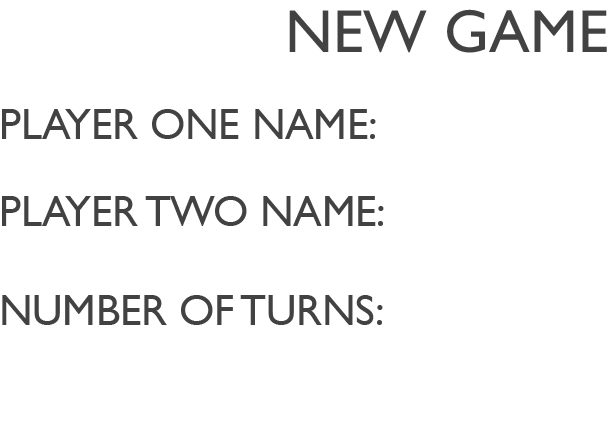
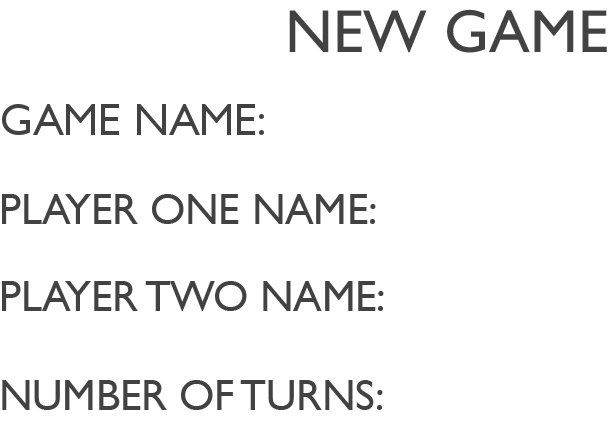
Removed some unused assets. Added gameName vars and assets.

diff --git a/core/src/com/TeamHEC/LocomotionCommotion/Scene/StartMenu.java b/core/src/com/TeamHEC/LocomotionCommotion/Scene/StartMenu.java
@@ -38,10 +38,10 @@ public class StartMenu extends Scene{
 	private SpriteButton homeButton, nextButton, prevButton, preferencesBackButton;
 
 	// Other stuff
-	public static String player1name, player2name;
+	public static String gameName, player1name, player2name;
 	public static int turnChoice = 50;
-	public static TextField textbox1, textbox2;
-	private static boolean player1NameEntered, player2NameEntered;
+	public static TextField gameNameBox, playerNameBox1, playerNameBox2;
+	private static boolean gameNameEntered, player1NameEntered, player2NameEntered;
 
 	public StartMenu()
 	{
@@ -231,7 +231,7 @@ public class StartMenu extends Scene{
 			public void onClicked()
 			{
 				if (player1NameEntered){
-					LocomotionCommotion.player1name=textbox1.getText();
+					LocomotionCommotion.player1name=playerNameBox1.getText();
 				}
 				
 				else{
@@ -239,11 +239,19 @@ public class StartMenu extends Scene{
 				}
 				
 				if (player2NameEntered){
-					LocomotionCommotion.player2name=textbox2.getText();
+					LocomotionCommotion.player2name=playerNameBox2.getText();
 				}
 				
 				else{
 					LocomotionCommotion.player2name="Orange";
+				}
+				
+				if (gameNameEntered){
+					LocomotionCommotion.gameName=gameNameBox.getText();
+				}
+				else{
+					//Could find the smallest available integer for saving replay information
+					LocomotionCommotion.gameName="TestGame";
 				}
 				
 				LocomotionCommotion.turnChoice = turnChoice;
@@ -254,8 +262,8 @@ public class StartMenu extends Scene{
 			
 			public void resetNewGameScreen()
 			{
-				textbox1.setText("");
-				textbox2.setText("");
+				playerNameBox1.setText("");
+				playerNameBox2.setText("");
 				turn50Button.setTexture(SM_TextureManager.getInstance().sm_newgame_Turn50Btn);
 				turn100Button.setTexture(SM_TextureManager.getInstance().sm_newgame_Turn100_unselected_Btn);
 				turn150Button.setTexture(SM_TextureManager.getInstance().sm_newgame_Turn150_unselected_Btn);
@@ -300,8 +308,8 @@ public class StartMenu extends Scene{
 			}
 
 			public void resetNewGameScreen(){
-				StartMenu.textbox1.setText("");
-				StartMenu.textbox2.setText("");
+				StartMenu.playerNameBox1.setText("");
+				StartMenu.playerNameBox2.setText("");
 				turn50Button.setTexture(SM_TextureManager.getInstance().sm_newgame_Turn50Btn);
 				turn100Button.setTexture(SM_TextureManager.getInstance().sm_newgame_Turn100_unselected_Btn);
 				turn150Button.setTexture(SM_TextureManager.getInstance().sm_newgame_Turn150_unselected_Btn);
@@ -312,7 +320,7 @@ public class StartMenu extends Scene{
 		};
 		actors.add(newGameBackButton);
 
-		turn50Button = new SpriteButton(490, 1497, SM_TextureManager.getInstance().sm_newgame_Turn50Btn){
+		turn50Button = new SpriteButton(490, 1412, SM_TextureManager.getInstance().sm_newgame_Turn50Btn){
 
 			@Override
 			public void onClicked()
@@ -326,7 +334,7 @@ public class StartMenu extends Scene{
 		};
 		actors.add(turn50Button);
 
-		turn100Button = new SpriteButton(590, 1497, SM_TextureManager.getInstance().sm_newgame_Turn100_unselected_Btn){
+		turn100Button = new SpriteButton(590, 1412, SM_TextureManager.getInstance().sm_newgame_Turn100_unselected_Btn){
 
 			@Override
 			public void onClicked()
@@ -340,7 +348,7 @@ public class StartMenu extends Scene{
 		};
 		actors.add(turn100Button);
 
-		turn150Button = new SpriteButton(690, 1497, SM_TextureManager.getInstance().sm_newgame_Turn150_unselected_Btn){
+		turn150Button = new SpriteButton(690, 1412, SM_TextureManager.getInstance().sm_newgame_Turn150_unselected_Btn){
 
 			@Override
 			public void onClicked()
@@ -580,38 +588,56 @@ public class StartMenu extends Scene{
 		
 		//Text boxes for Player 1 and 2 names
 		Skin skin = new Skin(Gdx.files.internal("data/uiskin.json"));
-
-		textbox1 = new TextField("", skin);
+		
+		gameNameBox = new TextField("", skin);
 		skin.getFont("default-font").setScale(1.5f, 1.5f);
-		textbox1.setX(480);
-		textbox1.setY(1150+532);
-		textbox1.setSize(430, 60);
-		textbox1.setMessageText("Player 1");
+		gameNameBox.setX(480);
+		gameNameBox.setY(1150+532);
+		gameNameBox.setSize(430, 60);
+		gameNameBox.setMessageText("Game Name");
+		gameNameEntered = false;
+		TextFieldListener gameField = new TextFieldListener(){
+			public void keyTyped (TextField textbox0, char key){
+				if (key == '\n') textbox0.getOnscreenKeyboard().show(false);
+				gameName = textbox0.getText();
+				gameNameEntered = true;
+			}
+		};
+		gameNameBox.setTextFieldListener(gameField);
+		
+		playerNameBox1 = new TextField("", skin);
+		skin.getFont("default-font").setScale(1.5f, 1.5f);
+		playerNameBox1.setX(480);
+		playerNameBox1.setY(1150+447);
+		playerNameBox1.setSize(430, 60);
+		playerNameBox1.setMessageText("Player One");
 		player1NameEntered = false;
 		TextFieldListener player1 = new TextFieldListener() {
 			public void keyTyped (TextField textbox1, char key) {
 				if (key == '\n') textbox1.getOnscreenKeyboard().show(false);
 				player1name = textbox1.getText();
 				player1NameEntered = true;
-			}};
+			}
+		};
+		playerNameBox1.setTextFieldListener(player1);
 
-			textbox1.setTextFieldListener(player1);
+		playerNameBox2 = new TextField("", skin);
+		playerNameBox2.setX(480);
+		playerNameBox2.setY(1150+362);
+		playerNameBox2.setSize(430, 60);
+		playerNameBox2.setMessageText("Player Two");
+		player2NameEntered = false;
+		TextFieldListener player2 = new TextFieldListener() {
+			public void keyTyped (TextField textbox2, char key) {
+				if (key == '\n') textbox2.getOnscreenKeyboard().show(false);
+				player2name = textbox2.getText();
+				player2NameEntered = true;
+			}
+		};
+		playerNameBox2.setTextFieldListener(player2);
 
-			textbox2 = new TextField("", skin);
-			textbox2.setX(480);
-			textbox2.setY(1150+447);
-			textbox2.setSize(430, 60);
-			textbox2.setMessageText("Player 2");
-			player2NameEntered = false;
-			TextFieldListener player2 = new TextFieldListener() {
-				public void keyTyped (TextField textbox2, char key) {
-					if (key == '\n') textbox2.getOnscreenKeyboard().show(false);
-					player2name = textbox2.getText();
-					player2NameEntered = true;
-				}};
-				textbox2.setTextFieldListener(player2);
-
-				actors.add(textbox1);
-				actors.add(textbox2);
+		actors.add(gameNameBox);
+		actors.add(playerNameBox1);
+		actors.add(playerNameBox2);
 	}
 }

diff --git a/core/src/com/TeamHEC/LocomotionCommotion/Scene/SM_TextureManager.java b/core/src/com/TeamHEC/LocomotionCommotion/Scene/SM_TextureManager.java
@@ -33,10 +33,6 @@ public class SM_TextureManager {
 	public CustomTexture sm_newgame_BackBtn = new CustomTexture(Gdx.files.internal("startMenu/sm_newgame/backButton.png"));
 	public CustomTexture sm_newgame_GoBtn = new CustomTexture(Gdx.files.internal("startMenu/sm_newgame/goBtn.png"));
 	public CustomTexture sm_newgame_TempTextBox = new CustomTexture(Gdx.files.internal("startMenu/sm_newgame/tempTextBox.png"));
-	public CustomTexture sm_newgame_TurnTimeOutBtn = new CustomTexture(Gdx.files.internal("startMenu/sm_newgame/turnTimeoutBtn.png"));
-	public CustomTexture sm_newgameTurnTimeOut_unselected_Btn = new CustomTexture(Gdx.files.internal("startMenu/sm_newgame/turnTimeout_unselected_Btn.png"));
-	public CustomTexture sm_newgame_StationDomBtn = new CustomTexture(Gdx.files.internal("startMenu/sm_newgame/stationDominationBtn.png"));
-	public CustomTexture sm_newgame_StationDom_unselected_Btn = new CustomTexture(Gdx.files.internal("startMenu/sm_newgame/stationDomination_unselected_Btn.png"));
 	public CustomTexture sm_newgame_Turn50Btn = new CustomTexture(Gdx.files.internal("startMenu/sm_newgame/turn50.png"));
 	public CustomTexture sm_newgame_Turn100Btn = new CustomTexture(Gdx.files.internal("startMenu/sm_newgame/turn100.png"));
 	public CustomTexture sm_newgame_Turn150Btn = new CustomTexture(Gdx.files.internal("startMenu/sm_newgame/turn150.png"));

diff --git a/core/src/com/TeamHEC/LocomotionCommotion/LocomotionCommotion.java b/core/src/com/TeamHEC/LocomotionCommotion/LocomotionCommotion.java
@@ -24,7 +24,7 @@ public class LocomotionCommotion extends Game {
 	public static int screenY = 1050;
 	
 	//StartMenuOptions
-	public static String gameMode, player1name, player2name;
+	public static String gameName, player1name, player2name;
 	public static int turnChoice;
 
 	private static LocomotionCommotion INSTANCE = new LocomotionCommotion();
